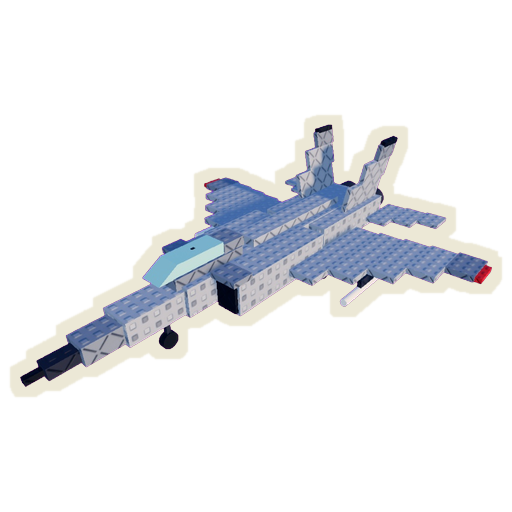
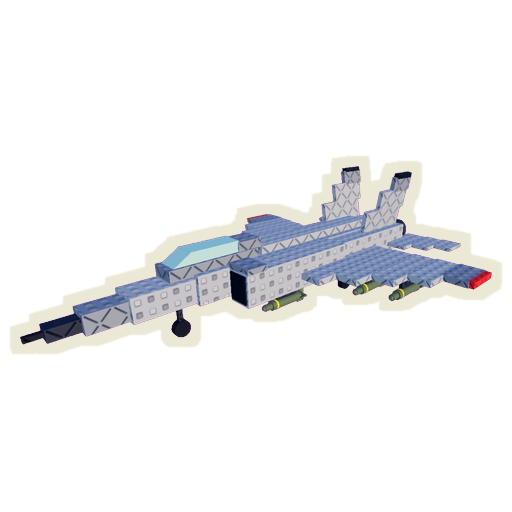
0.18.2: F-15 rebuilt with no floating parts and six bombs
Claude-Session: https://claude.ai/code/session_01KB8J4SbMK9Cfijt6PpATiv

Changed region(s): [[0.0, 0.2188, 1.0, 0.7812]]

diff --git a/CHANGELOG.md b/CHANGELOG.md
@@ -2,6 +2,11 @@
 
 Versions follow MAJOR.MINOR.PATCH. The current version is also in `VERSION` and on the `GameVersion` attribute of `ReplicatedStorage.Convoy` in the place.
 
+## 0.18.2 — F-15 rebuilt, with bombs
+- `Models.F15` rebuilt (all 3 places): every part overlaps its neighbour (wing roots sunk into the body, stepped wing / stabilator / tail blocks overlapping, gear struts start inside the body, wingtips on the wing). Checked with a GetPartsInPart flood fill from the fuselage: 0 floating parts.
+- Six Mk-82 bombs on pylons (four under the wings, two under the intakes): olive body, nose, yellow band, cross tail fins. The AIM missiles are gone.
+- Strike card photo retaken (rbxassetid://115198505980368).
+
 ## 0.18.1 — Mechanic panel, new F-15
 - The Mechanic's prompt uses our custom prompt style (Kind = "Strike", no hold) and opens a STRIKE UPGRADES panel (StarterGui.StrikeUI, a copy of the season panel; script StrikeUI): three cards ARTILLERY / A-10 STRIKE / F-15 STRIKE with photos of the real models (outlined; art/strike, rbxassetid 84573117546235 / 99792664342161 / 124753424927721), the one you have marked EQUIPPED, and an UPGRADE button with the game's gem icon. Buying only through the BuyStrike action now. Header icon: the repair tools, not the season badge.
 - The HUD's F card shows the A-10 / F-15 photo once you have it.
